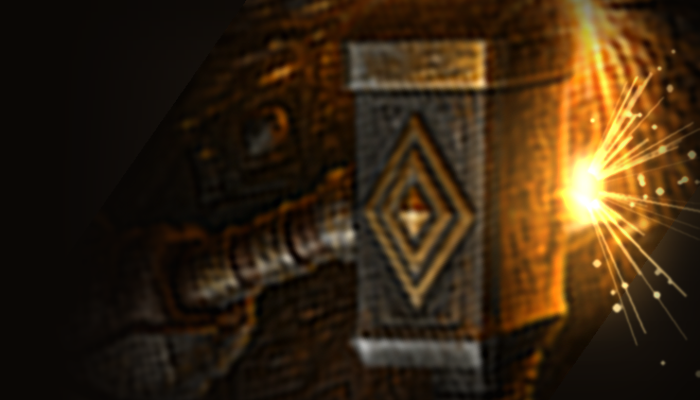
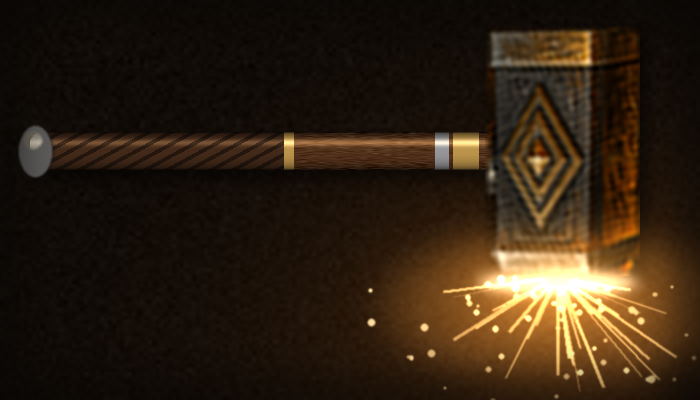
Attack art: straight shaft at 90° to the head, burst on the head's striking face; long variant for touch slabs
Claude-Session: https://claude.ai/code/session_01Kd3oyzXNMwJbxyeeZtYha8

diff --git a/index.html b/index.html
@@ -553,6 +553,7 @@ const SPRITE_FILES={
   icon_climb:'assets/ui/icon_climb.png',
   icon_attack:'assets/ui/icon_attack.png',
   icon_attack_wide:'assets/ui/icon_attack_wide.png',
+  icon_attack_long:'assets/ui/icon_attack_long.png',
   icon_defend:'assets/ui/icon_defend.png',
   icon_craft:'assets/ui/icon_craft.png',
   icon_specialty_i:'assets/ui/icon_specialty_i.png',
@@ -765,7 +766,7 @@ function loadSprites(done){
     'pordoom_dead','fendur_dead','orbo_dead','talpor_dead',
     'rubble','rubble2','boulder','boulder2','lantern','winduptoy','winduptoy_wound',
     'icon_pack','icon_sword','icon_flask','icon_shield','icon_cross',
-    'icon_plant','icon_shovel','icon_campfire','icon_bomb','icon_crossbow','icon_secret','icon_climb','icon_attack','icon_attack_wide','icon_defend','icon_craft',
+    'icon_plant','icon_shovel','icon_campfire','icon_bomb','icon_crossbow','icon_secret','icon_climb','icon_attack','icon_attack_wide','icon_attack_long','icon_defend','icon_craft',
     'icon_specialty_i','icon_specialty_ii','icon_specialty_iii','icon_specialty_iv',
     'icon_helm','icon_necklace','icon_chest','icon_bracers','icon_gloves','icon_pants','icon_boots','icon_quiver','icon_save',
     'pordoom','pordoom_w1','pordoom_w2','pordoom_w3','fendur','fendur_w1','fendur_w2','fendur_w3','orbo','orbo_w1','orbo_w2','orbo_w3','talpor','talpor_w1','talpor_w2','talpor_w3',
@@ -17520,7 +17521,12 @@ function drawSlot(g,b,s){
     roundPath(g,x-2.5*s,y-2.5*s,w+5*s,h+5*s,wide?8:6); g.stroke(); }
   const col=ready?(b.key==='rally'?'#ff8a7a':'#e9d5a6'):'rgba(160,140,110,0.42)';
   const simg=slotAnimImg(b);
-  const wideArt=wide && b.key==='attack' && ico==='attack' && SPR.icon_attack_wide && SPR.icon_attack_wide.width ? SPR.icon_attack_wide : null;
+  /* Horizontal maul: 1.75:1 art for the desktop slab, 3.75:1 for flat touch slabs. */
+  const artOk=k=>SPR[k]&&SPR[k].width?SPR[k]:null;
+  const longSlab=wide && (w/h)>2.6;
+  const wideArt=(wide && b.key==='attack' && ico==='attack')
+    ? ((longSlab&&artOk('icon_attack_long'))||artOk('icon_attack_wide')) : null;
+  const impactX=wideArt&&wideArt===SPR.icon_attack_long?0.9052:0.7969, impactY=0.695;
   if(wideArt){
     /* Horizontal maul, head to the right, striking. Cover-fit, then a live
        impact flare on the head so the slab reads as a blow landing. */
@@ -17528,12 +17534,15 @@ function drawSlot(g,b,s){
     const lit=(ready&&atForge)?1:0.42;
     g.save();
     roundPath(g,x+3*s,y+3*s,dw,dh,5); g.clip();
+    /* Cover-fit, pinned right so the head and burst never crop;
+       any overflow trims the pommel end of the shaft. */
     const sc=Math.max(dw/iw, dh/ih), rw=iw*sc, rh=ih*sc;
-    const ox=x+3*s+(dw-rw)/2, oy=y+3*s+(dh-rh)/2;
+    const ox=x+3*s+dw-rw, oy=y+3*s+(dh-rh)/2;
     g.globalAlpha=A*lit;
     g.drawImage(wideArt, ox, oy, rw, rh);
     if(lit===1){
-      const hx=ox+rw*0.83, hy=oy+rh*0.47;
+      /* Impact point: the bottom striking face of the head. */
+      const hx=ox+rw*impactX, hy=oy+rh*impactY;
       const beat=0.5+0.5*Math.sin(G.elapsed*5.2);
       const rad=dh*(0.30+0.10*beat)+(b.hold?dh*0.18:0);
       g.globalCompositeOperation='lighter';
@@ -17544,7 +17553,7 @@ function drawSlot(g,b,s){
       g.fillStyle=fl; g.beginPath(); g.arc(hx,hy,rad,0,TAU); g.fill();
       g.strokeStyle='rgba(255,220,150,'+(0.35+0.35*beat)+')'; g.lineWidth=Math.max(1,1.2*s);
       for(let i=0;i<7;i++){
-        const a0=-1.1+i*0.37+Math.sin(G.elapsed*3+i)*0.08;
+        const a0=Math.PI/2-1.1+i*0.37+Math.sin(G.elapsed*3+i)*0.08;
         const r0=rad*0.35, r1=rad*(0.85+0.25*((i*37%10)/10))*(0.8+0.3*beat);
         g.beginPath(); g.moveTo(hx+Math.cos(a0)*r0, hy+Math.sin(a0)*r0);
         g.lineTo(hx+Math.cos(a0)*r1, hy+Math.sin(a0)*r1); g.stroke();
